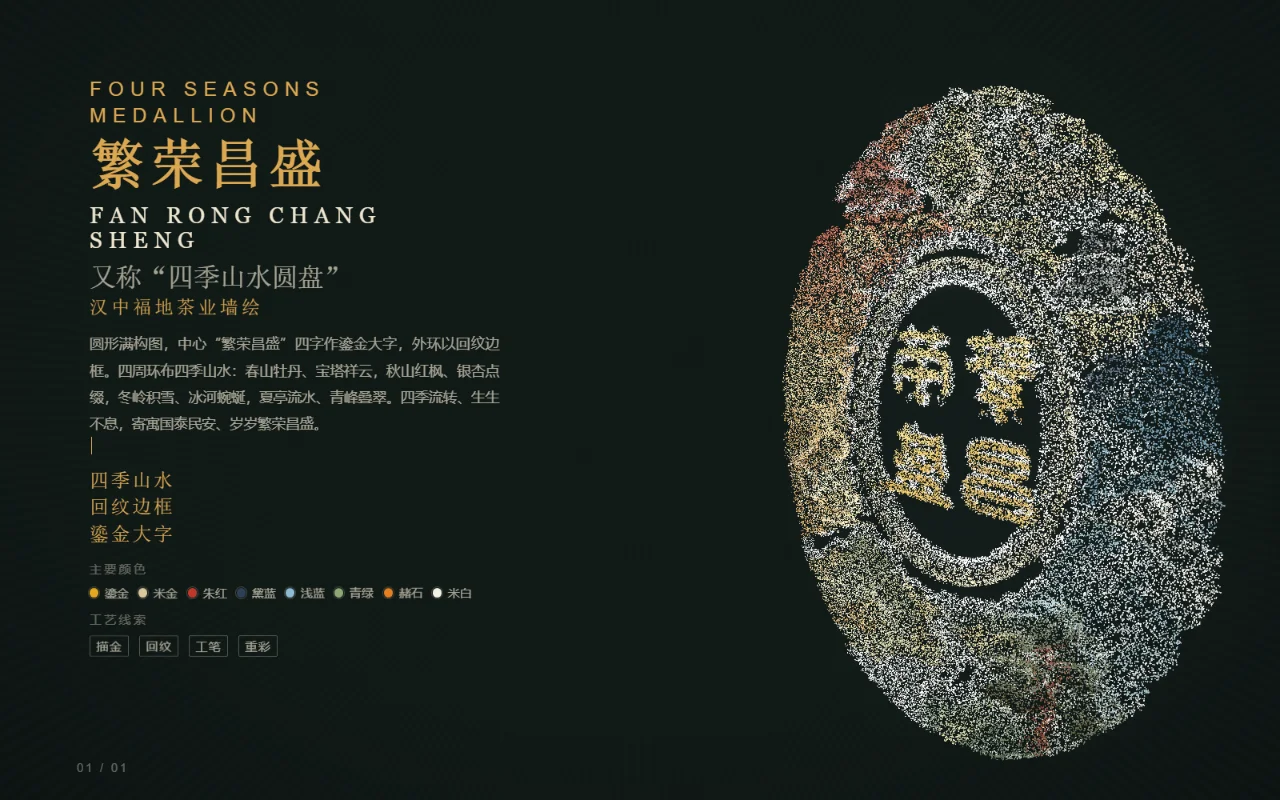
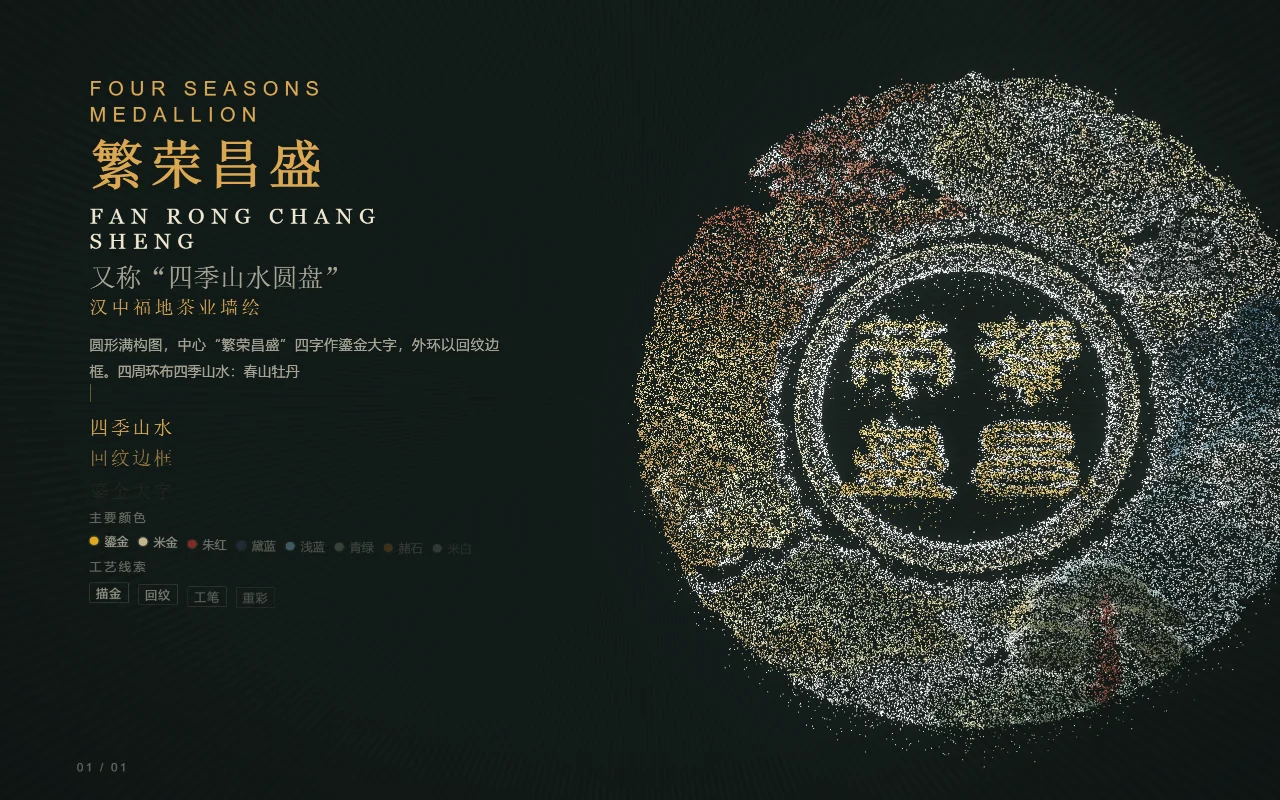
首页: 修复作品区蒙版白字隐形 + 恢复首屏3D偏转(±15°)
- #spotlight .work-card 背景透明, 蒙版圆内白字可见(原白底盖黑底)
- 首屏恢复鼠标跟随倾斜 ±15° + 持续摇摆 ±5°, 主层与镜像层同步偏转
- 作品缩略图重渲染为圆盘正面视角(正圆), 旧图备份 medallion.old.webp
- 联系栏/页脚 GitHub 链接显示 GANYU

Changed region(s): [[0.5, 0.0938, 1.0, 0.9688], [0.0625, 0.1562, 0.4062, 0.8125], [0.0625, 0.0938, 0.25, 0.2188]]

diff --git a/index.html b/index.html
@@ -18,9 +18,9 @@
       --font-display: "Archivo Black", "Noto Sans SC", sans-serif;
       --font-body: "Space Grotesk", "Noto Sans SC", sans-serif;
       --font-cn: "Noto Sans SC", sans-serif;
-      --r: clamp(70px, min(16vh, 20vw), 150px); /* 黑圆蒙版半径(小圆, 不遮挡居中标题) */
-      --cx: 36%;                /* 蒙版初始位置(JS 接管前) */
-      --cy: 44%;
+      --r: clamp(70px, min(16vh, 20vw), 150px); /* 黑圆蒙版半径(全站 spotlight 共用) */
+      --cx: 50vw;               /* 蒙版初始位置(JS 接管前): 视口上部居中 */
+      --cy: 26vh;
     }
 
     /* ============ 基础 ============ */
@@ -106,13 +106,15 @@
     .corner-br { bottom: 26px; right: 26px; }
     .corner-inv { color: rgba(255, 255, 255, .6); }
 
-    /* 双层: 底层暖白黑字 / 反色层黑底白字(clip 出圆形蒙版) */
+    /* 首屏内容层: 暖白底黑字(黑圆蒙版由全局 spotlight 提供) */
     .layer { position: absolute; inset: 0; }
     .layer-base { z-index: 1; }
-    .layer-invert {
-      z-index: 2;
-      background: var(--ink);
-      clip-path: circle(var(--r) at var(--cx) var(--cy));
+
+    /* 首屏 3D 舞台: 内容随鼠标倾斜(±15°) + 持续摇摆(±5°), 主层与镜像层共用 --tx/--ty/--tz 同步偏转 */
+    .hero { perspective: 1200px; }
+    .hero .layer-base {
+      transform: rotateX(var(--tx, 0deg)) rotateY(var(--ty, 0deg)) rotateZ(var(--tz, 0deg));
+      will-change: transform;
     }
 
     /* 主标题(双层各一份: 基础层中文黑字, 反色层英文白字), 画面居中 */
@@ -141,16 +143,6 @@
         0.045em 0.045em 0 rgba(0, 0, 0, .45),
         0.08em 0.08em 0.08em rgba(0, 0, 0, .14);
     }
-    /* 浮雕字(反色层黑底白字) */
-    .layer-invert .hero-title {
-      color: #f5f5ec;
-      text-shadow:
-        -0.035em -0.035em 0 rgba(0, 0, 0, 1),
-        -0.07em -0.07em 0.06em rgba(0, 0, 0, .6),
-        0.05em 0.05em 0 rgba(255, 255, 255, .4),
-        0.09em 0.09em 0.1em rgba(0, 0, 0, .5);
-    }
-
     /* 副行(标题下方居中) */
     .hero-sub {
       margin-top: clamp(14px, 1.6vw, 26px);
@@ -158,14 +150,6 @@
       font-size: clamp(12px, 1.05vw, 16px);
       letter-spacing: .08em;
       color: var(--muted);
-    }
-    .layer-invert .hero-sub { color: rgba(255, 255, 255, .92); }
-
-    /* 首屏 3D 舞台: 内容随鼠标小幅倾斜 + 持续轻微摇摆 */
-    .hero { perspective: 1200px; }
-    .layer {
-      transform: rotateX(var(--tx, 0deg)) rotateY(var(--ty, 0deg)) rotateZ(var(--tz, 0deg));
-      will-change: transform;
     }
 
     /* 滚动提示 */
@@ -183,7 +167,6 @@
       color: var(--muted);
       z-index: 4;
     }
-    .layer-invert .hero-hint { color: rgba(255, 255, 255, .65); }
     .hint-arrow { display: inline-block; animation: hintDrop 2.2s ease-in-out infinite; }
     @keyframes hintDrop {
       0%, 100% { transform: translateY(0); }
@@ -385,10 +368,94 @@
     }
     .site-footer a:hover { color: var(--ink); }
 
+    /* ============ 全局黑圆蒙版(spotlight) ============ */
+    /* 整页反色层: 黑底, 圆形 clip-path 跟随光标, 覆盖全站所有区块 */
+    #spotlight {
+      position: absolute;
+      top: 0;
+      left: 0;
+      right: 0;
+      background: var(--ink);
+      clip-path: circle(var(--r) at var(--cx) var(--cy));
+      pointer-events: none;
+      z-index: 10;               /* 低于吸顶导航(z-20), 高于正文内容 */
+      color: #f5f5ec;
+    }
+    /* 反色主文字(标题/数值) */
+    #spotlight h2,
+    #spotlight .work-title,
+    #spotlight .fact-grid dd,
+    #spotlight .c-static {
+      color: #f5f5ec;
+    }
+    /* 反色正文 */
+    #spotlight .sec-lead,
+    #spotlight .work-desc {
+      color: rgba(245, 245, 236, .78);
+    }
+    /* 反色次要文字 */
+    #spotlight .sec-kicker,
+    #spotlight .work-tag,
+    #spotlight .work-meta,
+    #spotlight .fact-grid dt,
+    #spotlight .c-label,
+    #spotlight .site-footer {
+      color: rgba(245, 245, 236, .55);
+    }
+    /* 反色分隔线 */
+    #spotlight .sec,
+    #spotlight .work-card,
+    #spotlight .work-thumb,
+    #spotlight .fact-grid,
+    #spotlight .fact-grid > div,
+    #spotlight .work-meta,
+    #spotlight .contact-list,
+    #spotlight .contact-list li,
+    #spotlight .site-footer {
+      border-color: rgba(245, 245, 236, .28);
+    }
+    /* 查看项目按钮: 反色(白底黑字) */
+    #spotlight .work-view { background: #f5f5ec; color: #0a0a0a; }
+    /* 蒙版修复: 镜像作品卡背景透出黑底(原 .work-card 白底盖住 spotlight 黑底, 白字隐形) */
+    #spotlight .work-card { background: transparent; }
+    /* 镜像首屏: 与主首屏同尺寸同位置, 文字反色(圆内显示英文标题) */
+    .spot-hero {
+      position: relative;
+      height: calc(100vh - 60px);
+      margin-top: 60px;
+      min-height: 560px;
+      perspective: 1200px;        /* 与主首屏同透视, 偏转渲染一致 */
+    }
+    /* 镜像偏转容器: 与主首屏 .layer 同尺寸, 用同一组 --tx/--ty/--tz 同步偏转 */
+    .spot-tilt {
+      position: absolute;
+      inset: 0;
+      transform: rotateX(var(--tx, 0deg)) rotateY(var(--ty, 0deg)) rotateZ(var(--tz, 0deg));
+      will-change: transform;
+    }
+    .spot-frame {
+      position: absolute;
+      inset: 14px;
+      border: 1px solid rgba(245, 245, 236, .28);
+    }
+    .spot-title {
+      color: #f5f5ec;
+      text-shadow:
+        -0.035em -0.035em 0 rgba(0, 0, 0, 1),
+        -0.07em -0.07em 0.06em rgba(0, 0, 0, .6),
+        0.05em 0.05em 0 rgba(255, 255, 255, .4),
+        0.09em 0.09em 0.1em rgba(0, 0, 0, .5);
+    }
+    .spot-sub { color: rgba(245, 245, 236, .92); }
+    .spot-hint { color: rgba(245, 245, 236, .65); }
+    #spotlight .corner { color: rgba(245, 245, 236, .6); }
+
     /* ============ 响应式 ============ */
     @media (max-width: 768px) {
       .hero { min-height: 480px; }
+      .spot-hero { min-height: 480px; }
       .hero-frame { inset: 8px; }
+      .spot-frame { inset: 8px; }
       .corner-tl { top: 18px; left: 18px; }
       .corner-br { bottom: 18px; right: 18px; }
       .hero-title { left: clamp(20px, 8vw, 60px); }
@@ -443,14 +510,6 @@
         <p class="hero-hint" aria-hidden="true"><span class="hint-arrow">↓</span> SCROLL</p>
       </div>
 
-      <!-- 反色层: 黑底白字, 仅蒙版圆内可见 -->
-      <div class="layer layer-invert" aria-hidden="true">
-        <div class="hero-copy">
-          <h1 class="hero-title">I AM GANYU</h1>
-          <p class="hero-sub">甘宇 · 3D 视觉 / 数字媒体创作</p>
-        </div>
-        <p class="hero-hint"><span class="hint-arrow">↓</span> SCROLL</p>
-      </div>
     </section>
 
     <!-- ============ 关于 ============ -->
@@ -523,7 +582,7 @@
         </li>
         <li>
           <span class="c-label">GitHub</span>
-          <a href="https://github.com/2188195028-crypto" target="_blank" rel="noopener">2188195028-crypto ↗</a>
+          <a href="https://github.com/2188195028-crypto" target="_blank" rel="noopener">GANYU ↗</a>
         </li>
         <li>
           <span class="c-label">所在地</span>
@@ -539,64 +598,154 @@
     <a href="https://github.com/2188195028-crypto" target="_blank" rel="noopener">GITHUB ↗</a>
   </footer>
 
+  <!-- ============ 全局黑圆蒙版(镜像反色层, 仅装饰不参与交互) ============ -->
+  <div id="spotlight" aria-hidden="true">
+    <!-- 镜像首屏: 圆内显示英文标题 -->
+    <div class="spot-hero">
+      <div class="spot-frame"></div>
+      <span class="corner corner-tl">PORTFOLIO — 2026</span>
+      <span class="corner corner-br">3D · MEDIA · INTERACTIVE</span>
+      <div class="spot-tilt">
+        <div class="hero-copy">
+          <h1 class="hero-title spot-title">I AM GANYU</h1>
+          <p class="hero-sub spot-sub">甘宇 · 3D 视觉 / 数字媒体创作</p>
+        </div>
+        <p class="hero-hint spot-hint"><span class="hint-arrow">↓</span> SCROLL</p>
+      </div>
+    </div>
+
+    <!-- 镜像: 关于 -->
+    <section class="sec">
+      <p class="sec-kicker">ABOUT · 关于</p>
+      <h2>甘宇 GANYU</h2>
+      <p class="sec-lead">
+        视觉传达设计专业在读，擅长品牌视觉系统构建与三维视觉设计。
+        通过多个独立交付项目与一段企业实习，建立起从设计策略到商业落地的完整能力闭环，
+        能独立完成从概念提案、视觉设计到可交互原型落地的全链路交付。
+      </p>
+      <dl class="fact-grid">
+        <div><dt>年龄</dt><dd>20 岁</dd></div>
+        <div><dt>院校</dt><dd>陕西理工大学</dd></div>
+        <div><dt>学历</dt><dd>本科 · 视觉传达</dd></div>
+        <div><dt>求职方向</dt><dd>视觉传达设计师 / 三维设计师</dd></div>
+      </dl>
+    </section>
+
+    <!-- 镜像: 作品 -->
+    <section class="sec">
+      <p class="sec-kicker">WORK · 作品</p>
+      <h2>精选作品</h2>
+      <article class="work-card">
+        <span class="work-thumb">
+          <img src="assets/medallion.webp" alt="" />
+          <span class="work-view">查看项目 ↗</span>
+        </span>
+        <div class="work-info">
+          <p class="work-tag">Three.js / WebGL / 粒子系统</p>
+          <h3 class="work-title">繁荣昌盛 · 点云展陈</h3>
+          <p class="work-desc">
+            九万粒子聚合而成的四季山水圆盘，中心鎏金「繁荣昌盛」四字由金色粒子凝聚成形。
+            拖拽旋转观察细节，滚动令粒子消散又回升，如尘埃归位。
+          </p>
+          <div class="work-meta">
+            <span>2026</span>
+            <span>3D 交互</span>
+            <span>在线体验</span>
+          </div>
+        </div>
+      </article>
+    </section>
+
+    <!-- 镜像: 联系 -->
+    <section class="sec">
+      <p class="sec-kicker">CONTACT · 联系</p>
+      <h2>一起做点东西</h2>
+      <p class="sec-lead">
+        求职方向：视觉传达设计师 / 三维设计师。欢迎交流与合作，详细经历与技能请见简历。
+      </p>
+      <ul class="contact-list">
+        <li><span class="c-label">电话</span><span class="c-static">158 2851 6835</span></li>
+        <li><span class="c-label">邮箱</span><span class="c-static">2188195028@qq.com</span></li>
+        <li><span class="c-label">GitHub</span><span class="c-static">GANYU ↗</span></li>
+        <li><span class="c-label">所在地</span><span class="c-static">四川省成都市龙泉驿区</span></li>
+      </ul>
+    </section>
+
+    <!-- 镜像: 页脚 -->
+    <footer class="site-footer">
+      <span>© 2026 GANYU · 甘宇</span>
+      <span>GITHUB ↗</span>
+    </footer>
+  </div>
+
   <script>
-  /* ============ 首屏交互: 黑圆蒙版跟随光标 ============ */
+  /* ============ 全局交互: 黑圆蒙版跟随光标(全站复用) ============ */
   (function () {
     'use strict';
-    var hero = document.querySelector('.hero');
+    var spotlight = document.getElementById('spotlight');
     var reduce = window.matchMedia('(prefers-reduced-motion: reduce)').matches;
+    var vw = document.documentElement.clientWidth;
+    var vh = document.documentElement.clientHeight;
 
-    /* --- 蒙版圆: 缓动跟随光标, 静止 2.5s 归位 --- */
-    var rect = hero.getBoundingClientRect();
-    var r = Math.min(Math.max(rect.height * 0.16, 70), 150);
-    var homeX = rect.width * 0.50;   // 默认位置: 标题正上方, 圆底与标题顶留出空隙
-    var homeY = rect.height * 0.26;
+    var homeX = vw * 0.50;   // 默认停留位: 视口上部居中(标题上方)
+    var homeY = vh * 0.26;
     var tx = homeX, ty = homeY, cx = homeX, cy = homeY;
     var lastMove = 0;
     var IDLE_MS = 2500;
 
-    function setCircle(x, y) {
-      hero.style.setProperty('--cx', x + 'px');
-      hero.style.setProperty('--cy', y + 'px');
-    }
-
-    function onMove(e) {
-      var rc = hero.getBoundingClientRect();
-      tx = e.clientX - rc.left;
-      ty = e.clientY - rc.top;
-      lastMove = performance.now();
-    }
-    hero.addEventListener('pointermove', onMove);
-    hero.addEventListener('pointerdown', onMove);
-    hero.addEventListener('pointerleave', function () { lastMove = 0; }); // 离开 → 归位
-
-    /* ?demo=1: 圆定格在标题上缘(截图/验证反色效果用, 不吞没整行中文) */
-    if (/[?&]demo=1/.test(location.search)) {
-      tx = rect.width * 0.50;
-      ty = rect.height * 0.40;
-      cx = tx; cy = ty;
-    }
-
-    setCircle(cx, cy);
-
-    /* 内容层倾斜与摇摆 */
+    /* --- 首屏 3D 偏转: 鼠标控制 ±15°(原版 ±8°), 持续摇摆 ±5°(原版 ±3°) --- */
+    /* 变量挂在 body 上, 主首屏 .layer 与镜像 .spot-tilt 同步继承, 蒙版圆保持对齐 */
+    var hero = document.querySelector('.hero');
     var tiltX = 0, tiltY = 0, tX = 0, tY = 0, tZ = 0;
     var startT = performance.now();
 
     function setTilt() {
-      hero.style.setProperty('--tx', tiltX.toFixed(3) + 'deg');
-      hero.style.setProperty('--ty', tiltY.toFixed(3) + 'deg');
-      hero.style.setProperty('--tz', tZ.toFixed(3) + 'deg');
+      document.body.style.setProperty('--tx', tiltX.toFixed(3) + 'deg');
+      document.body.style.setProperty('--ty', tiltY.toFixed(3) + 'deg');
+      document.body.style.setProperty('--tz', tZ.toFixed(3) + 'deg');
     }
-
     function onTilt(e) {
       var rc = hero.getBoundingClientRect();
-      /* 鼠标偏离中心 → 目标倾角(±8 度内) */
-      tX = ((e.clientY - rc.top) / rc.height - 0.5) * -16;
-      tY = ((e.clientX - rc.left) / rc.width - 0.5) * 16;
+      /* 鼠标偏离首屏中心 → 目标倾角(±15 度内) */
+      tX = ((e.clientY - rc.top) / rc.height - 0.5) * -30;
+      tY = ((e.clientX - rc.left) / rc.width - 0.5) * 30;
     }
     hero.addEventListener('pointermove', onTilt);
     hero.addEventListener('pointerdown', onTilt);
+
+    /* 蒙版圆坐标 = 视口坐标 + 滚动偏移(文档坐标, 与页面内容同步滚动) */
+    function setCircle(x, y) {
+      spotlight.style.setProperty('--cx', (x + (window.scrollX || 0)) + 'px');
+      spotlight.style.setProperty('--cy', (y + (window.scrollY || 0)) + 'px');
+    }
+
+    function onMove(e) {
+      tx = e.clientX;
+      ty = e.clientY;
+      lastMove = performance.now();
+    }
+    document.addEventListener('pointermove', onMove);
+    document.addEventListener('pointerdown', onMove);
+    document.addEventListener('mouseleave', function () { lastMove = 0; }); // 指针离开窗口 → 归位
+
+    window.addEventListener('resize', function () {
+      vw = document.documentElement.clientWidth;
+      vh = document.documentElement.clientHeight;
+      homeX = vw * 0.50;
+      homeY = vh * 0.26;
+    });
+
+    /* ?demo=1: 圆钉在视口坐标(截图/验证反色效果用, 不吞没整行中文); &x=&y= 可指定视口坐标 */
+    if (/[?&]demo=1/.test(location.search)) {
+      var params = new URLSearchParams(location.search);
+      var fx = parseFloat(params.get('x'));
+      var fy = parseFloat(params.get('y'));
+      tx = isNaN(fx) ? vw * 0.50 : fx;
+      ty = isNaN(fy) ? vh * 0.40 : fy;
+      cx = tx; cy = ty;
+    }
+
+    setCircle(cx, cy);
 
     if (!reduce) {
       function frame() {
@@ -608,8 +757,8 @@
         cx += (tx - cx) * 0.12;
         cy += (ty - cy) * 0.12;
         if (Math.abs(tx - cx) < 0.5 && Math.abs(ty - cy) < 0.5) { cx = tx; cy = ty; }
-        /* 持续摇摆: 正弦 ±3 度, 周期约 8s */
-        tZ = Math.sin((now - startT) / 8000 * Math.PI * 2) * 3;
+        /* 持续摇摆: 正弦 ±5 度, 周期约 8s */
+        tZ = Math.sin((now - startT) / 8000 * Math.PI * 2) * 5;
         tiltX += (tX - tiltX) * 0.06;
         tiltY += (tY - tiltY) * 0.06;
         setCircle(cx, cy);
